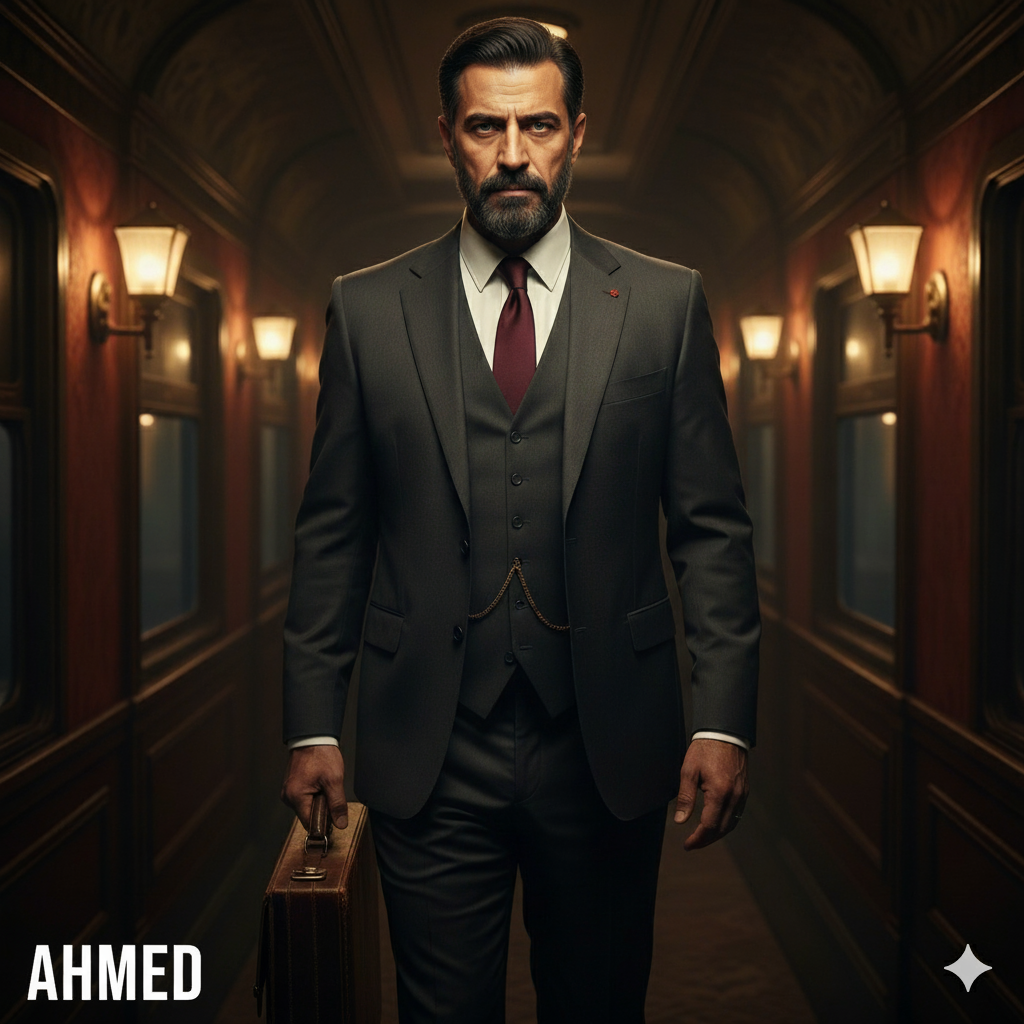
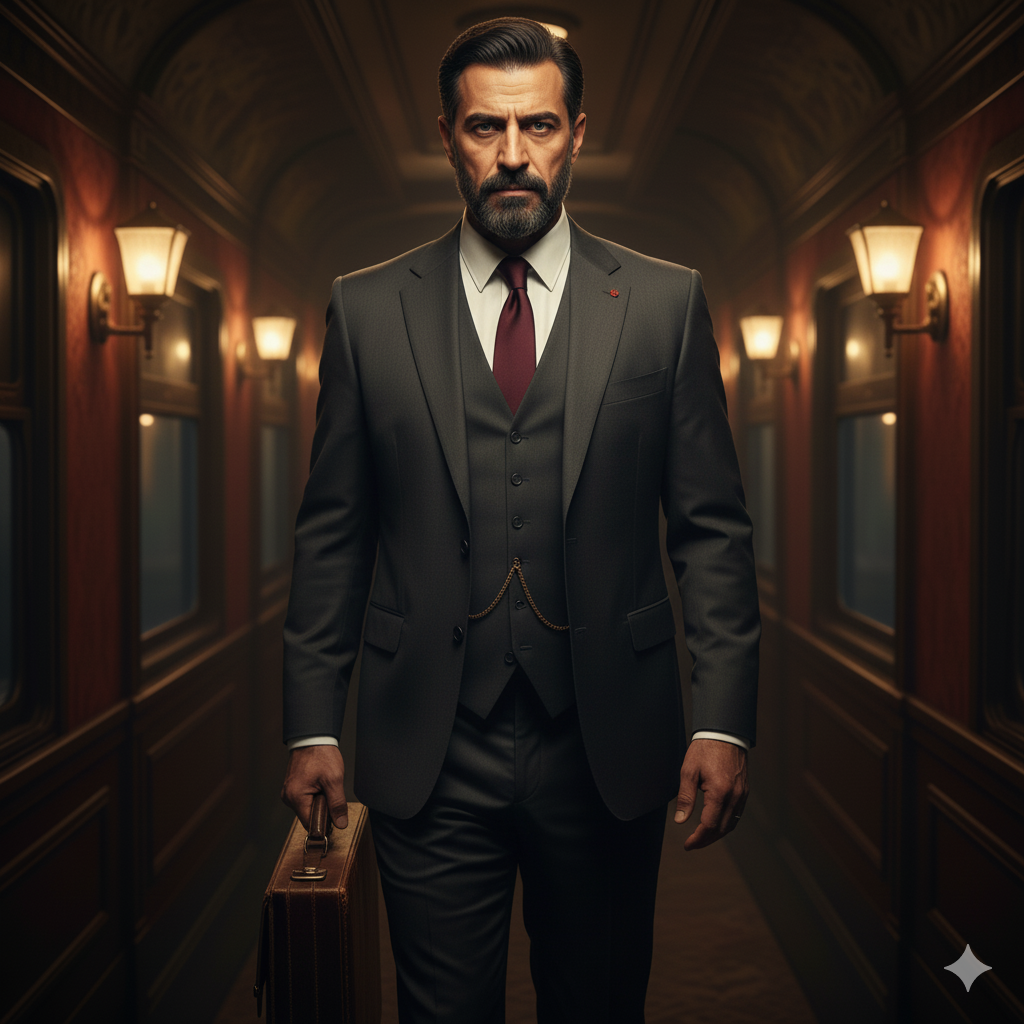
chore: remove nametags

Changed region(s): [[0.0312, 0.9062, 0.2188, 1.0], [0.9062, 0.9062, 0.9688, 0.9688]]

diff --git a/team09/client/banana.py b/team09/client/banana.py
@@ -5,7 +5,7 @@ from PIL import Image
 from io import BytesIO
 
 from config import REMOTE_USER, REMOTE_HOST, REMOTE_PORT, REMOTE_DIR, POLLING_INTERVAL
-from utils import reset_tmp_folder, get_sys_prompt
+from utils import reset_tmp_folder, get_sys_prompt, load_image
 
 # Initialize the genai client once
 try:
@@ -13,18 +13,88 @@ try:
     print("DEBUG: Google GenAI client initialized successfully.")
 except Exception as e:
     print(f"ERROR: Failed to initialize Google GenAI client: {e}")
-    print("Please ensure your API key is correctly configured for the `google-generativeai` library.")
+    print(
+        "Please ensure your API key is correctly configured for the `google-generativeai` library."
+    )
     exit(1)  # Exit if the client cannot be initialized
 
 
 # --- Image Generation Function ---
-def generate_image_with_gemini(transcript_text, output_filename="generated_image.png"):
+def generate_image_with_gemini(
+    transcript_text, output_filename="assets/frame.png"
+):
     """
     Generates an image using the Google Gemini API based on the transcript text
     and saves it to the specified output filename.
     """
     print(f"\n--- Gemini Image Generation ---")
-    # print(f"Prompting Gemini with: '{transcript_text.strip()}'")
+
+    contents = [
+        {
+            "role": "user",
+            "parts": [
+                {"text": get_sys_prompt()},
+            ],
+        },
+        {
+            "role": "user",
+            "parts": [
+                {"text": "Image of Ahmed"},
+                {"inline_data": {"mime_type": "image/png", "data": load_image("Ahmed.png")}},
+            ],
+        },
+        {
+            "role": "user",
+            "parts": [
+                {"text": "Image of Emmanuel"},
+                {"inline_data": {"mime_type": "image/png", "data": load_image("Emmanuel.png")}},
+            ],
+        },
+        {
+            "role": "user",
+            "parts": [
+                {"text": "Image of Liam"},
+                {"inline_data": {"mime_type": "image/png", "data": load_image("Liam.png")}},
+            ],
+        },
+        {
+            "role": "user",
+            "parts": [
+                {"text": "Image of Marge"},
+                {"inline_data": {"mime_type": "image/png", "data": load_image("Marge.png")}},
+            ],
+        },
+        {
+            "role": "user",
+            "parts": [
+                {"text": "Image of Peter"},
+                {"inline_data": {"mime_type": "image/png", "data": load_image("Peter.png")}},
+            ],
+        },
+        {
+            "role": "user",
+            "parts": [
+                {"text": "Image of Rory"},
+                {"inline_data": {"mime_type": "image/png", "data": load_image("Rory.png")}},
+            ],
+        },
+        {
+            "role": "user",
+            "parts": [
+                {
+                    "text": "The current scene of the game is as follows:\n\n"
+                    + transcript_text
+                },
+                {
+                    "text": "This picture shows what the previous scene of the game looked like."
+                },
+                {"inline_data": {"mime_type": "image/png", "data": load_image("frame.png")}},
+                {
+                    "text": "Given the new scene description, create a storyboard image for the current scene, based on the previous frame as provided."
+                },
+            ],
+        },
+    ]
 
     try:
         response = client.models.generate_content(
@@ -32,17 +102,30 @@ def generate_image_with_gemini(transcript_text, output_filename="generated_image
             contents=contents,
         )
 
+        # Check for safety blocks first
+        if response.prompt_feedback and response.prompt_feedback.block_reason:
+            print(
+                f"WARNING: The prompt was blocked. Reason: {response.prompt_feedback.block_reason}"
+            )
+            return None
+
+        # Check if the content part exists before trying to access it
+        if (
+            not response.candidates
+            or not response.candidates[0].content
+            or not response.candidates[0].content.parts
+        ):
+            print("WARNING: Gemini response did not contain an image or valid content.")
+            return None
+
         for part in response.candidates[0].content.parts:
             if part.text is not None:
                 print(f"DEBUG: Gemini response contained text: {part.text}")
-                # You might want to handle this case, e.g., if Gemini returns a description instead of an image
             elif part.inline_data is not None:
                 image = Image.open(BytesIO(part.inline_data.data))
                 image.save(output_filename)
                 print(f"SUCCESS: Image saved to {output_filename}")
-                return output_filename  # Return the filename if successful
-        print("WARNING: Gemini response did not contain an image.")
-        return None
+                return output_filename
 
     except Exception as e:
         print(f"ERROR: Failed to generate image with Gemini: {e}")
@@ -51,7 +134,9 @@ def generate_image_with_gemini(transcript_text, output_filename="generated_image
 
 # --- Utility Functions (poll_and_generate_images) ---
 def poll_and_generate_images():
-    print(f"DEBUG: Starting transcript polling at interval of {POLLING_INTERVAL} seconds.")
+    print(
+        f"DEBUG: Starting transcript polling at interval of {POLLING_INTERVAL} seconds."
+    )
     print("-" * 30)
 
     try:
@@ -59,7 +144,7 @@ def poll_and_generate_images():
         reset_tmp_folder()
 
         while True:
-            filename = f"{current_file_index}.txt"  # Polling for .txt transcript files
+            filename = f"{current_file_index}.txt"
 
             scp_command = [
                 "scp",
@@ -82,18 +167,17 @@ def poll_and_generate_images():
                 print(f"DEBUG: Transcript content: {transcript_content.strip()}")
 
                 # Generate an image using the Gemini API with the transcript content
-                output_image_path = f"generated_image.png"  # Unique filename for each image
-                generated_image_file = generate_image_with_gemini(transcript_content, output_image_path)
+                generated_image_file = generate_image_with_gemini(
+                    transcript_content
+                )
 
                 if generated_image_file:
                     print(f"Successfully generated image: {generated_image_file}")
-                    # You can now use the 'generated_image_file' path, for example, to display it
                 else:
                     print(f"Could not generate an image for transcript in {filepath}.")
 
                 current_file_index += 1
             else:
-                # File was not found. Wait and try again.
                 time.sleep(POLLING_INTERVAL)
                 continue
 

diff --git a/team09/client/utils.py b/team09/client/utils.py
@@ -16,5 +16,10 @@ def reset_tmp_folder():
 
 
 def get_sys_prompt():
-    with open("../llm.md") as infile:
+    with open("assets/banana.md") as infile:
         return infile.read()
+
+
+def load_image(image_name: str) -> bytes:
+    with open(f"assets/{image_name}", "rb") as image_file:
+        return image_file.read()

diff --git a/team09/client/assets/banana.md b/team09/client/assets/banana.md
@@ -1,0 +1,19 @@
+# Murder Mystery Adventure Game: Murder on the Higgs Express
+
+## Overview
+
+This is a single player story-driven adventure game called "Murder on the Higgs Express", inspired by the book "Murder on the Orient Express". The player's objective is to solve the murder mystery.
+
+## List of characters
+
+Below is a table of all characters involved. Do not make up characters outside of this list.
+
+| character_id | Actual Name | Description                                                                                                                            |
+|--------------|-------------|----------------------------------------------------------------------------------------------------------------------------------------|
+| narrator     | Narrator    | The Narrator's voice. Not part of the game. Use "[narrator]" to narrate each scene.                                                    |
+| liam         | Liam        | Retired American veteran who fought in the Vietnam war. Gruff, stubborn, principled; speaks in curt, booming tones.                    |
+| marge        | Marge       | American horse surgeon. Optimistic, naïve, friendly; singsong manner and bubbly laughter.                                              |
+| ahmed        | Ahmed       | Criminal Lawyer, traveling from Syria. Always providing unsolicited advice, sometimes dogmatic.                                        |
+| peter        | Peter       | American train conductor, works for the Higgs Transit Commission. Nervous, eccentric, anxious; jittery speech that trembles, stutters. |
+| emmanuel     | Emmanuel    | Pastor from Nigeria. Talkative, nosy; upbeat, rambling voice with expressive inflections. Very optimistic.                             |
+| rory         | Rory        | Scottish Professor, PhD in History. Intellectual, blunt, impatient; crisp and matter-of-fact delivery.                                 |
